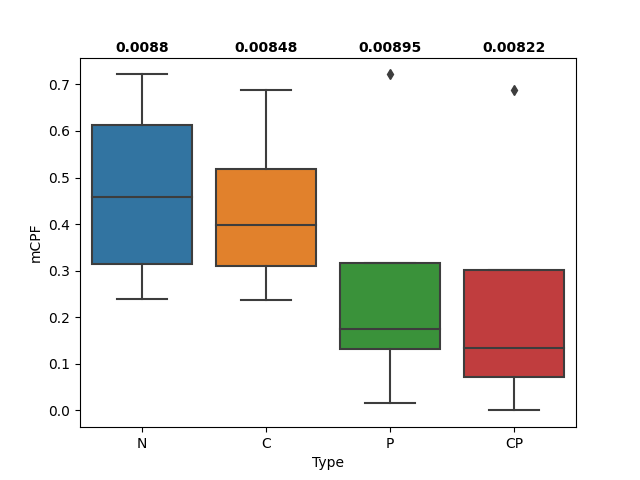
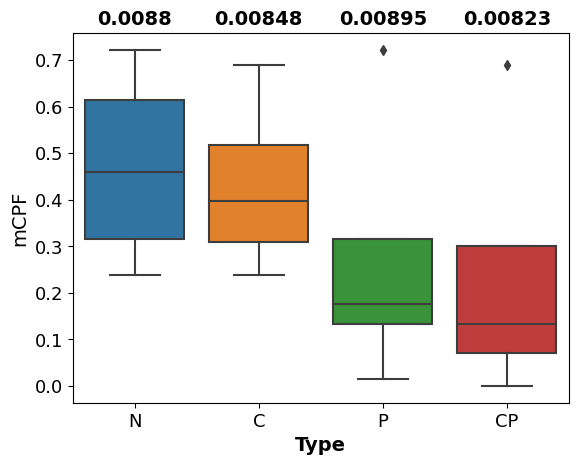
boxplot changes to make them more readable

diff --git a/src/boxplot.py b/src/boxplot.py
@@ -10,13 +10,17 @@ def create_boxplots(path, dataset, df):
 
     # Calculate the average per 'Type' for the 'All' column
     averages = df.groupby('Type')['All'].mean().round(5)
+
+    plt.xlabel('Type', fontsize=14, weight='bold')
+    plt.ylabel('mCPF', fontsize=14)
+    plt.xticks(fontsize=13)
+    plt.yticks(fontsize=13)
     
     # Add average annotations on top of the boxes
     y_min, y_max = plt.ylim()
     for i in range(4):
         average = averages[i]
-        ax.text(i, y_max + 0.02, average, ha='center', va='center', weight='bold')
+        ax.text(i, y_max + 0.03, average, ha='center', va='center', weight='bold', size=14)
 
-    plt.savefig(os.path.join(path, f'{dataset}.png'))
+    plt.savefig(os.path.join(path, f'{dataset}.png'), bbox_inches='tight')
     plt.close()
-    
